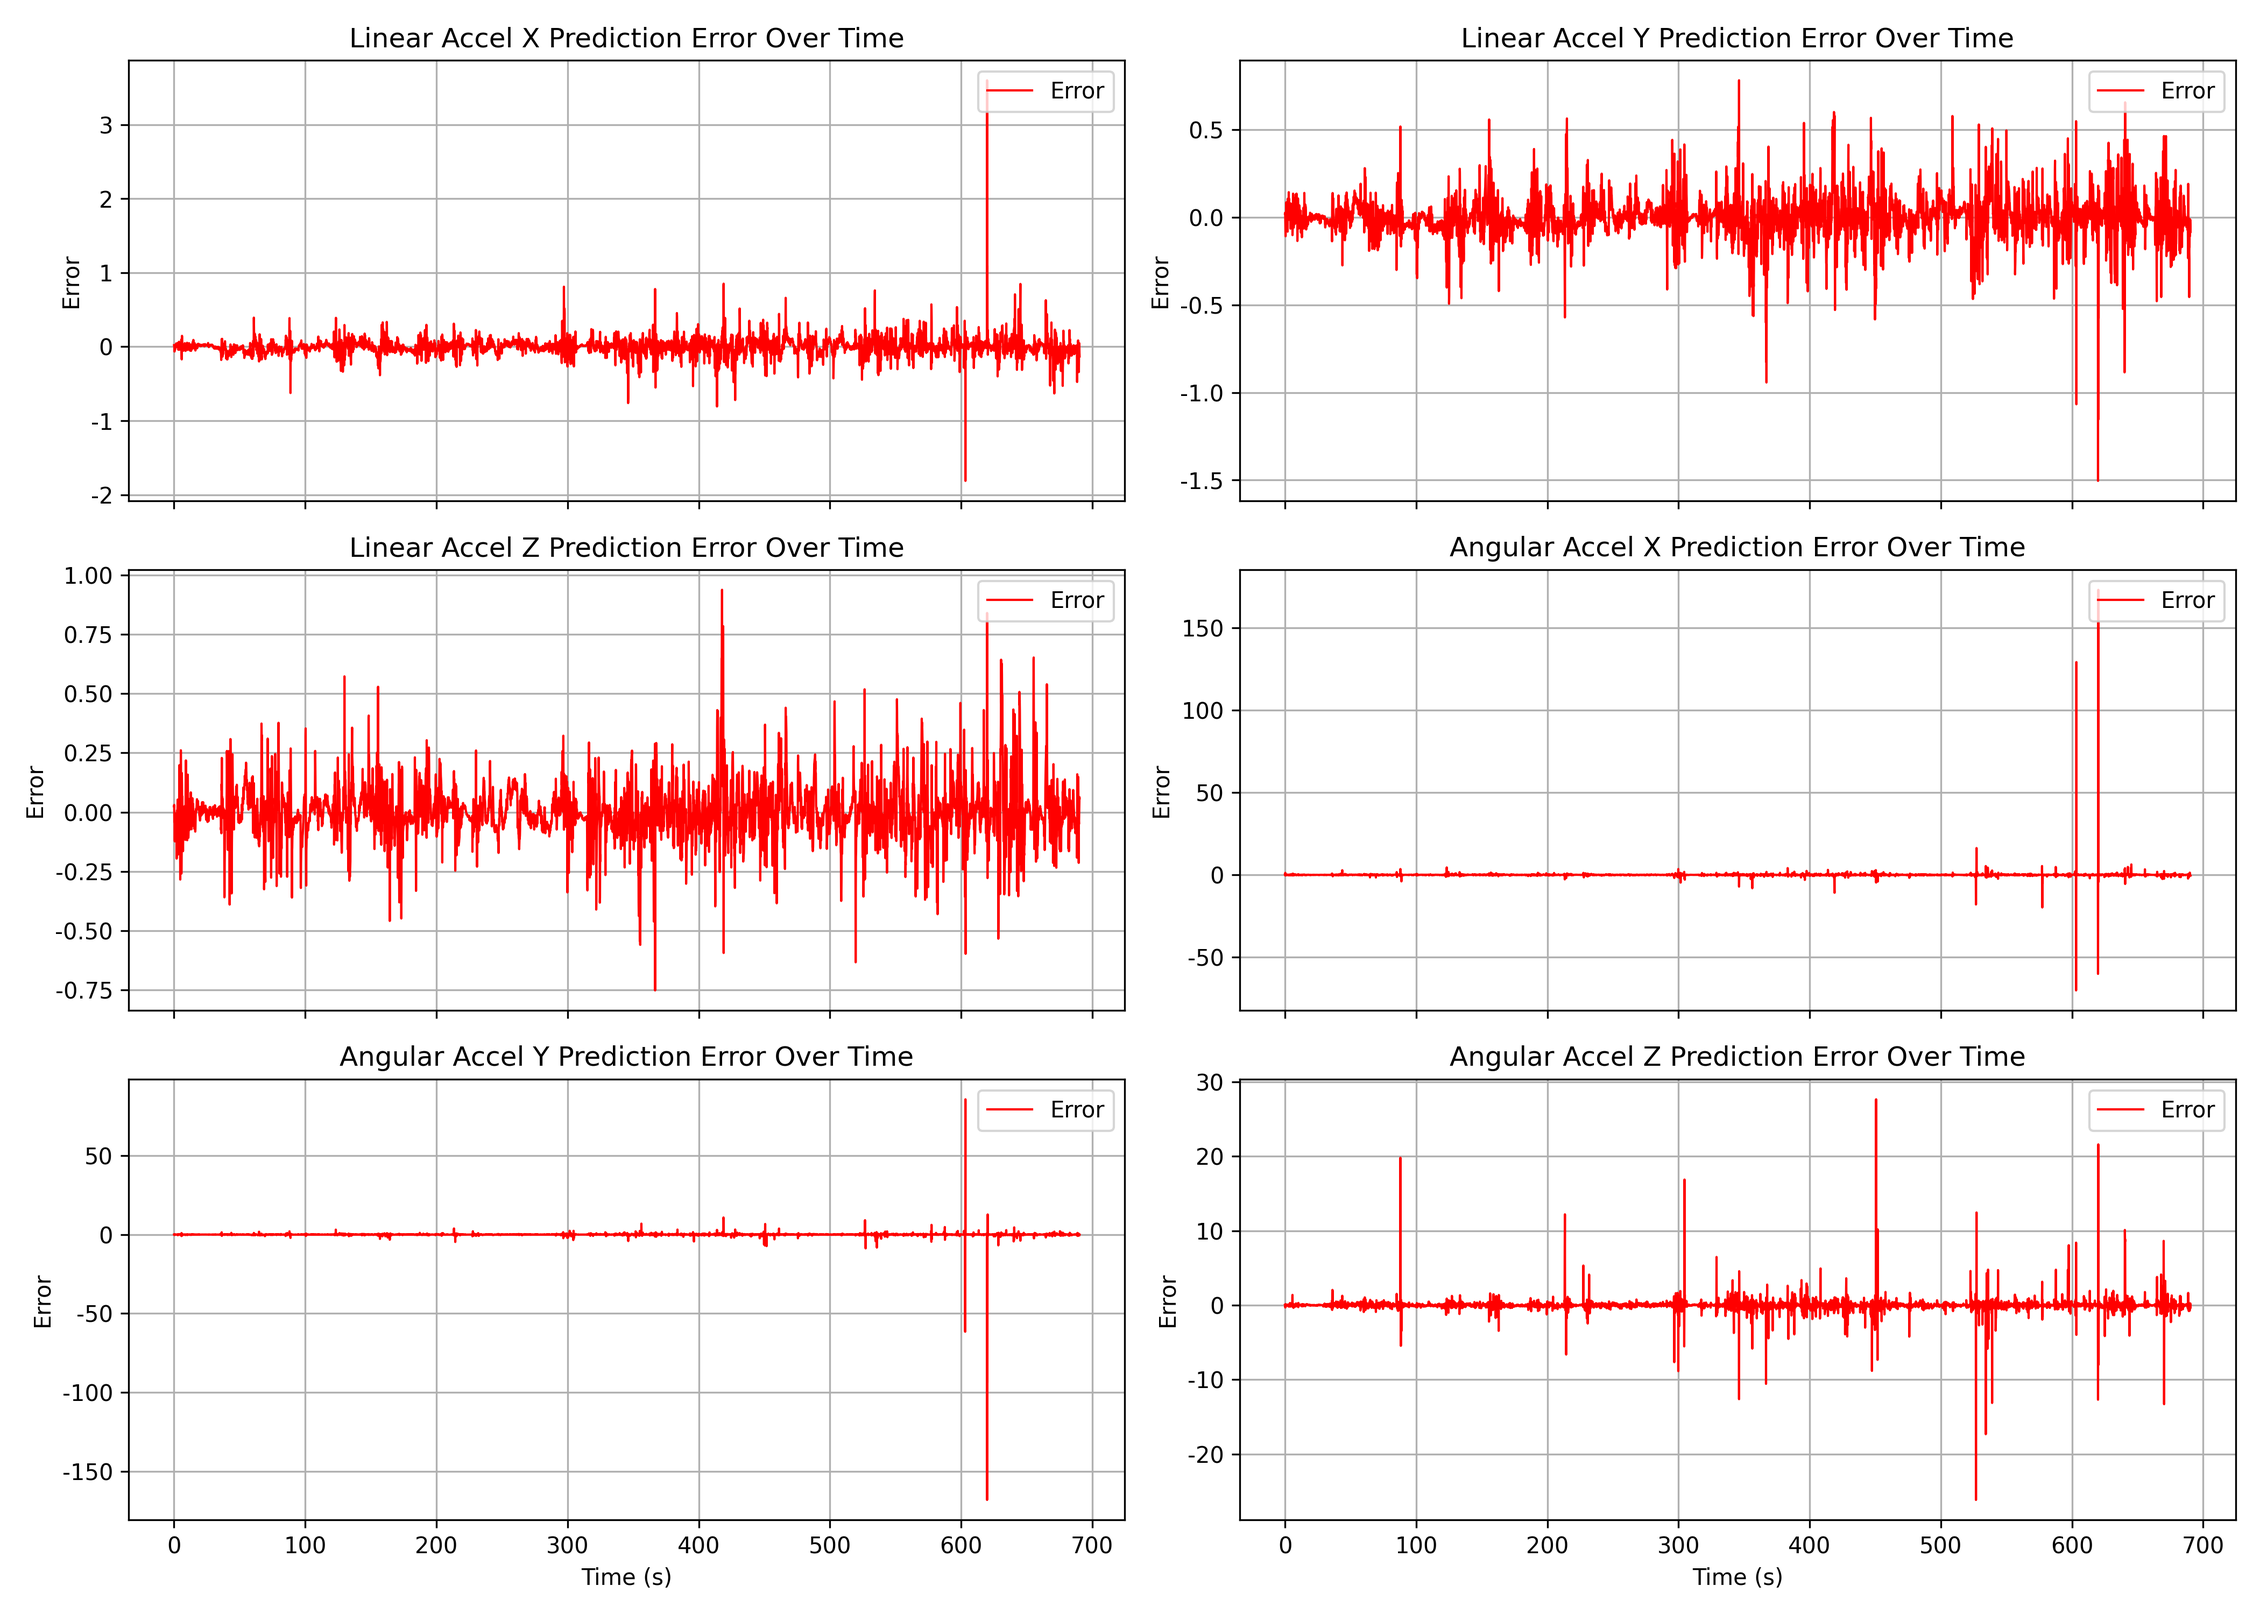
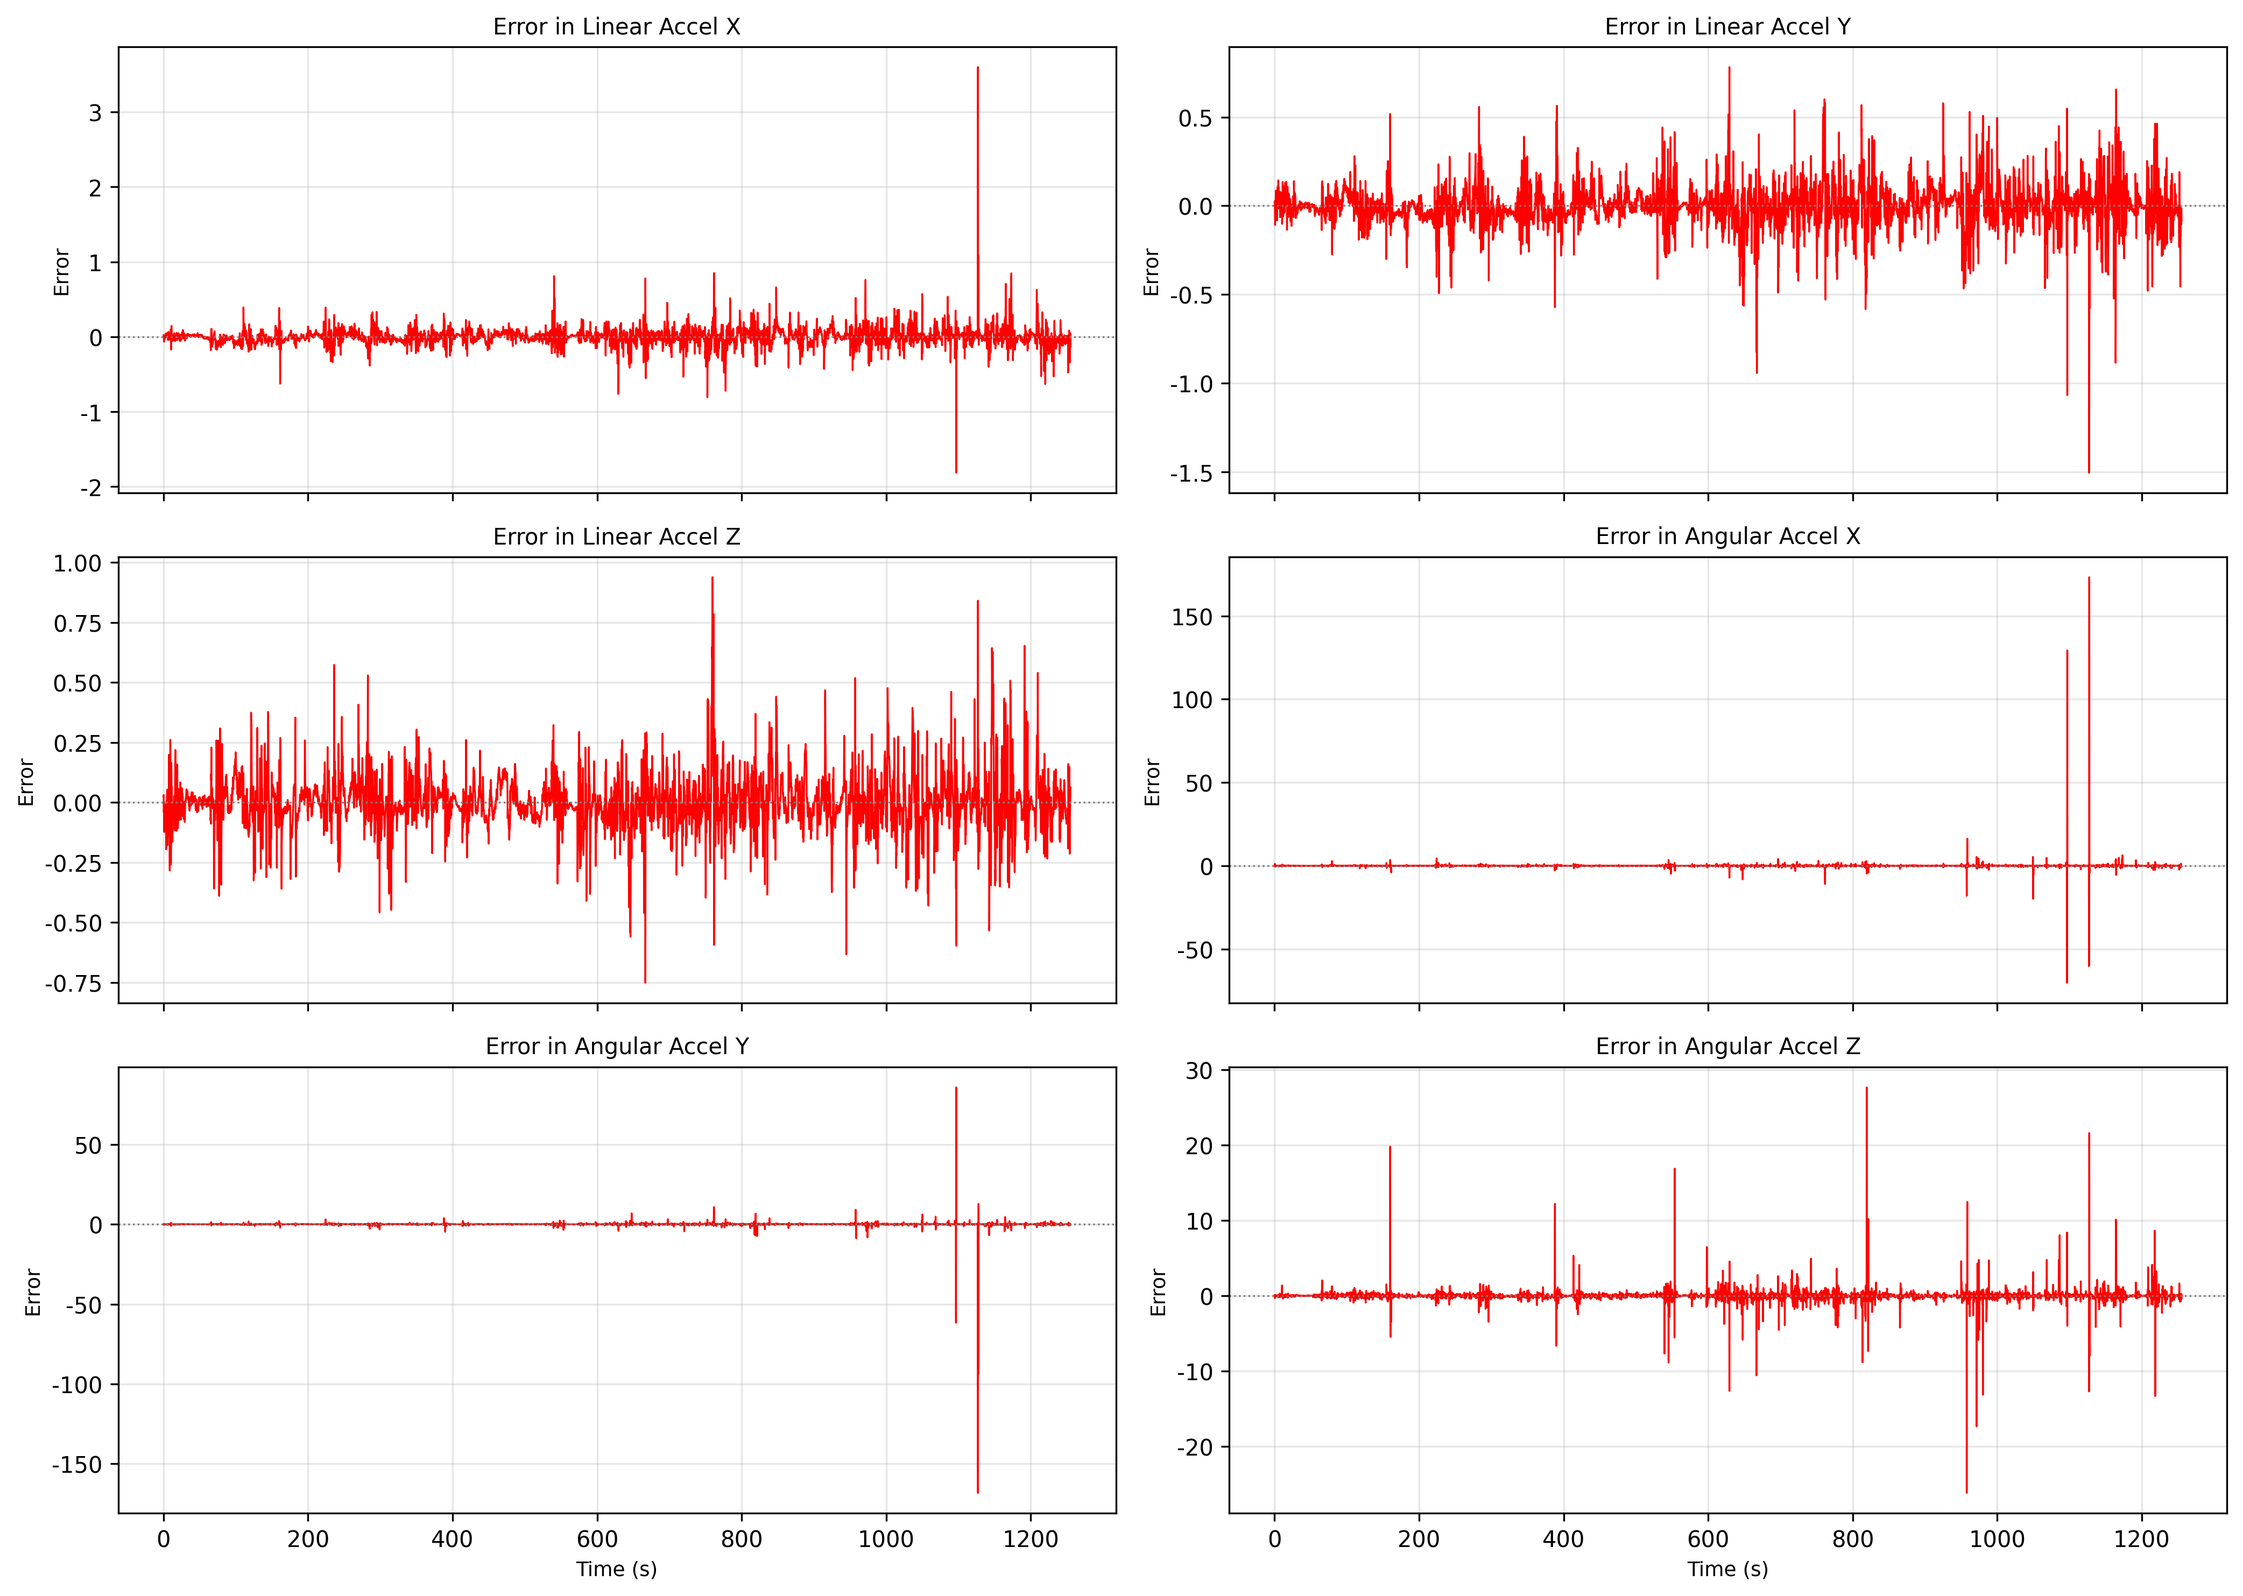
设计了新的模块，用来可视化分析拟合误差

diff --git a/utils/visualization.py b/utils/visualization.py
@@ -181,47 +181,85 @@ def visualize_overall_accuracy(
 def visualize_time_series(
     preds: np.ndarray,
     tgts: np.ndarray,
-    time_step: float = 0.11,
-    save_path: Optional[str] = None
+    time_step: float,
+    save_path: str
 ) -> None:
     """
-    Plot prediction error (predicted − ground truth) over time for each of 6 dimensions.
-    Layout: 3 rows × 2 columns with meaningful axis titles.
-
-    Parameters:
-      - preds: numpy array of shape (N,6) with model predictions.
-      - tgts:  numpy array of shape (N,6) with ground truth.
-      - time_step: float, time interval between samples.
-      - save_path: optional path to save the figure.
+    Plot time-series of prediction errors (pred - true) for each dimension.
+    x-axis: time steps; layout 2 columns x 3 rows; red fine solid lines, no legend.
     """
-    N, D = preds.shape
-    if D != 6:
-        raise ValueError(f"Expected 6 dims, got {D}")
-
+    errors = preds - tgts
     axis_names = [
         "Linear Accel X", "Linear Accel Y", "Linear Accel Z",
         "Angular Accel X", "Angular Accel Y", "Angular Accel Z"
     ]
-    times = np.arange(N) * time_step
-
+    times = np.arange(len(errors)) * time_step
     fig, axes = plt.subplots(3, 2, figsize=(14, 10), sharex=True)
     axes = axes.flatten()
+
     for i, ax in enumerate(axes):
-        # 计算误差
-        error = preds[:, i] - tgts[:, i]
-        # 用红色曲线绘制误差
-        ax.plot(times, error, color='red', label='Error', linewidth=1)
-        ax.set_title(f"{axis_names[i]} Prediction Error Over Time")
-        ax.set_ylabel("Error")
-        ax.grid(True)
+        # Red fine solid line for error
+        ax.plot(
+            times,
+            errors[:, i],
+            color='red',
+            linestyle='-',
+            linewidth=0.8
+        )
+        # Zero reference line
+        ax.axhline(0, color='gray', linestyle=':', linewidth=0.8)
+        ax.set_title(f"Error in {axis_names[i]}", fontsize=10)
+        ax.set_ylabel('Error', fontsize=9)
+        ax.grid(True, alpha=0.3)
         if i in (4, 5):
-            ax.set_xlabel("Time (s)")
-        ax.legend(loc='upper right')
+            ax.set_xlabel('Time (s)', fontsize=9)
 
     plt.tight_layout()
-    if save_path:
-        os.makedirs(os.path.dirname(save_path), exist_ok=True)
-        plt.savefig(save_path, dpi=300)
-    plt.show()
+    os.makedirs(os.path.dirname(save_path), exist_ok=True)
+    plt.savefig(save_path, dpi=300, bbox_inches='tight')
     plt.close()
 
+
+@torch.no_grad()
+def visualize_error_histograms(
+    preds: np.ndarray,
+    tgts: np.ndarray,
+    save_prefix: str,
+    linear_bins: int = 20,
+    angular_bins: int = 40,
+    tick_num: int = 5
+) -> None:
+    """
+    preds/tgts: (N,6)
+    linear_bins:   number of bins for dimensions 0–2
+    angular_bins:  number of bins for dimensions 3–5
+    tick_num:      number of x‑axis ticks
+    """
+    errors = preds - tgts  # (N,6)
+
+    def _plot_group(err_group, names, bins, suffix):
+        bound = float(np.max(np.abs(err_group))) or 1.0
+        edges = np.linspace(-bound, bound, bins + 1)
+        ticks = np.linspace(-bound, bound, tick_num)
+        fig, axes = plt.subplots(1, len(names), figsize=(5 * len(names), 4))
+        axes = np.atleast_1d(axes)
+        for i, ax in enumerate(axes):
+            ax.hist(err_group[:, i], bins=edges, edgecolor='black', alpha=0.7)
+            ax.set_title(f"{names[i]} Error")
+            ax.set_xlim(-bound, bound)
+            ax.set_xticks(ticks)
+            ax.set_xlabel("Error")
+            ax.set_ylabel("Frequency")
+            ax.grid(True)
+        plt.tight_layout()
+        path = f"{save_prefix}_{suffix}.png"
+        os.makedirs(os.path.dirname(path), exist_ok=True)
+        plt.savefig(path, dpi=300)
+        plt.show()
+        plt.close()
+
+    linear_names  = ["Linear Accel X","Linear Accel Y","Linear Accel Z"]
+    angular_names = ["Angular Accel X","Angular Accel Y","Angular Accel Z"]
+
+    _plot_group(errors[:, :3], linear_names,  linear_bins,   'linear')
+    _plot_group(errors[:, 3:], angular_names, angular_bins, 'angular')

diff --git a/utils/predict_and_compare_lstm.py b/utils/predict_and_compare_lstm.py
@@ -37,7 +37,7 @@ from models.dynamics_net import (
 )
 from utils.preprocessing import load_thrust_allocation_matrix
 from utils.dataset import PreprocessedDataset
-from utils.visualization import visualize_overall_accuracy, visualize_time_series
+from utils.visualization import visualize_overall_accuracy, visualize_time_series,visualize_error_histograms
 
 
 def load_model(
@@ -143,6 +143,8 @@ def main():
     )
 
     preds, tgts = predict_all(model, loader, device)
+
+
     save_to_csv(preds, tgts, args.out_csv)
 
     visualize_overall_accuracy(
@@ -152,13 +154,22 @@ def main():
     )
     print(f"Saved global fit plot to {args.vis}")
 
-    visualize_time_series(
+    # 6) visualize time series
+    visualize_time_series(preds, tgts,
+                          time_step=0.2,
+                          save_path=args.time_series)
+    print(f">> Saved time series plot: {args.time_series}")
+    # 生成误差分布直方图
+    hist_prefix = os.path.join(cfg.paths.SPLITS_DIR, "error_hist")
+    visualize_error_histograms(
         preds, tgts,
-        time_step=args.time_step,
-        save_path=args.time_series
+        save_prefix=hist_prefix,
+        linear_bins=40,  # 线性误差 10 个箱
+        angular_bins=40,  # 角误差 40 个箱（更细）
+        tick_num=10
     )
-    print(f"Saved time series plot to {args.time_series}")
-
+    print(f">> Saved linear-error histogram:  {hist_prefix}_linear.png")
+    print(f">> Saved angular-error histogram: {hist_prefix}_angular.png")
 
 if __name__ == '__main__':
     main()
